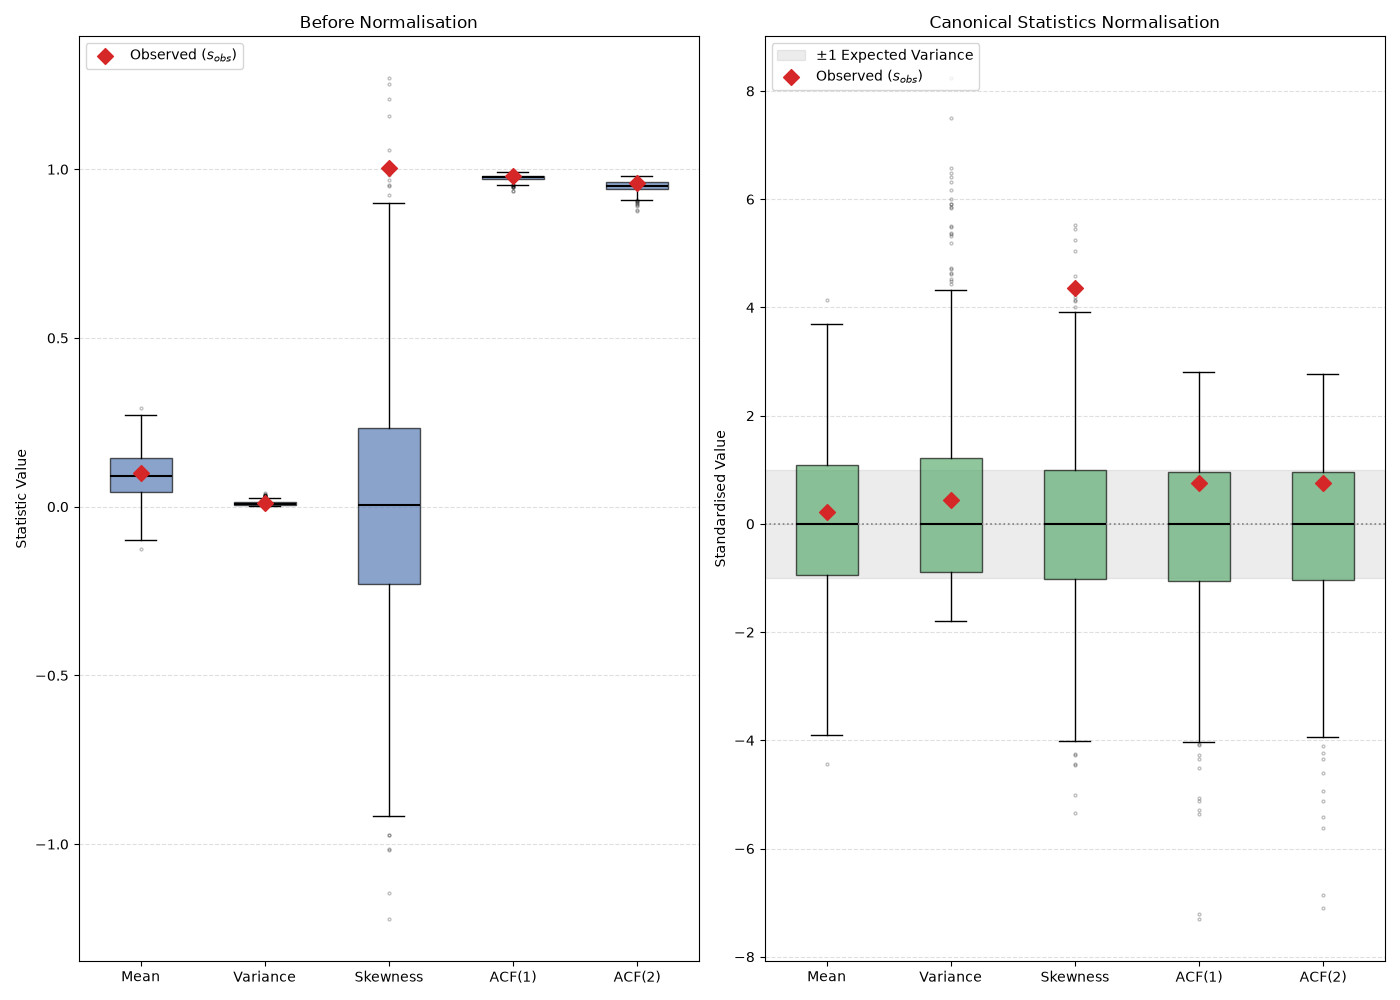
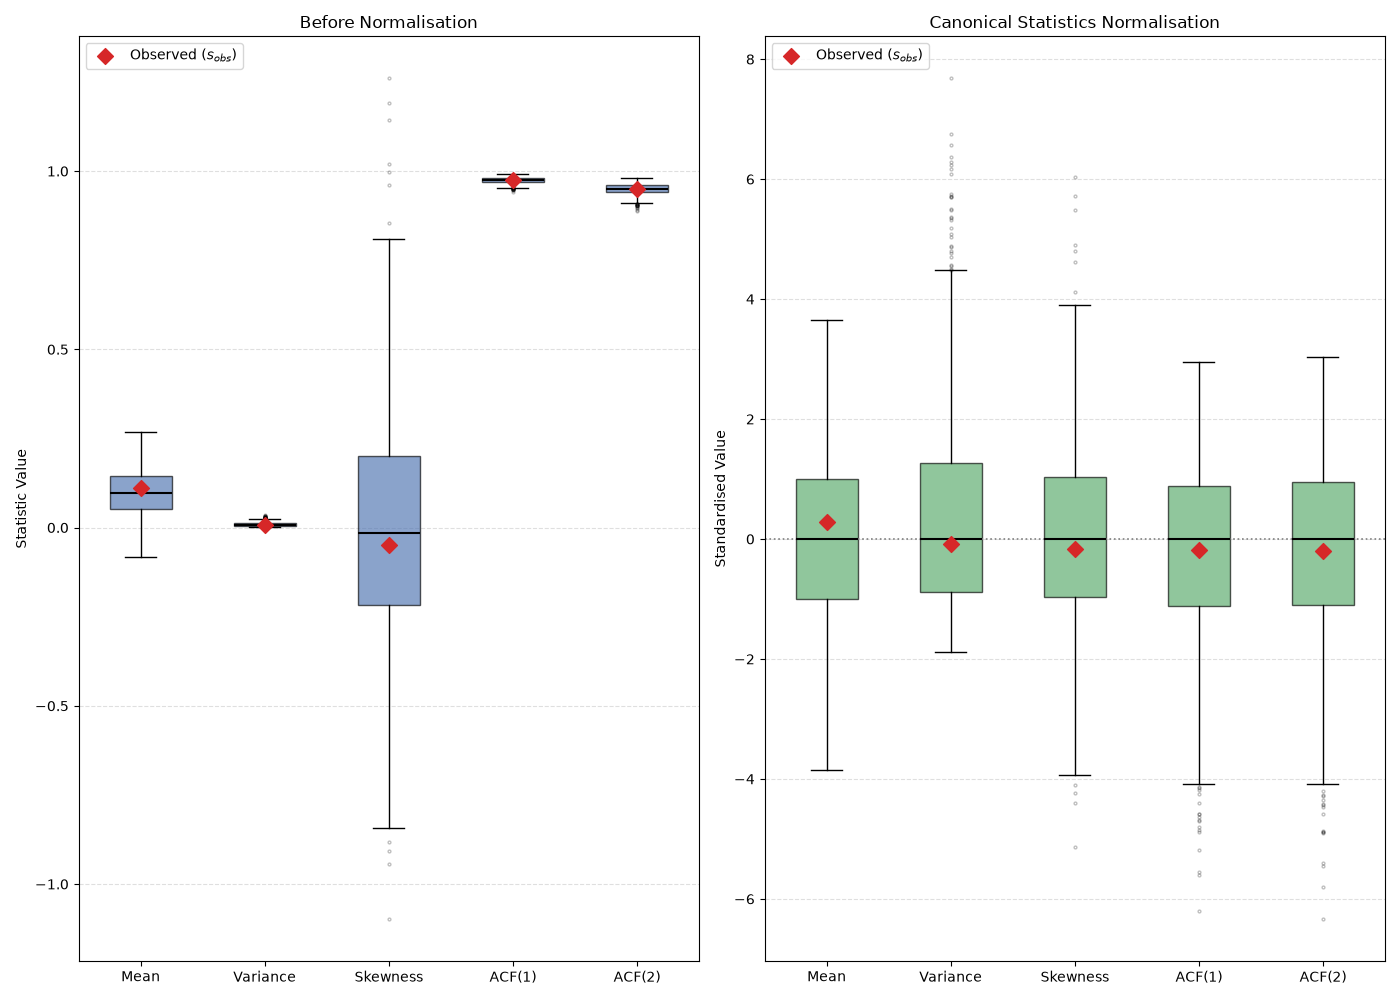
ft: added visualisation for abc

diff --git a/abc-nn/exp_canonical.py b/abc-nn/exp_canonical.py
@@ -50,6 +50,7 @@ if isinstance(summarise, CanonicalSummary):
     print('Fitted summary statistic medians: ', summarise.medians)
     print('Fitted summary statistic MADs: ', summarise.mads)
 
+# start the abc
 results = abcsmc_forward(
     obs=obs,
     prior_bounds=prior_bounds,
@@ -59,6 +60,8 @@ results = abcsmc_forward(
     max_iter=5,
     q=0.1
 )
+
+# print results
 """
 tuple: A tuple containing the following arrays up to the final completed round (t+1):
             - abc_particles (np.ndarray): The accepted parameter vectors forming the posterior.
@@ -69,9 +72,79 @@ tuple: A tuple containing the following arrays up to the final completed round (
             - abc_thresholds (np.ndarray): The epsilon distance thresholds enforced at each round.
 """
 print('Final ABC-SMC results:')
-print('Particles: ', results[0])
 print('Weights: ', results[1])
 print('Round times: ', results[2])
 print('Acceptance rates: ', results[3])
 print('Observed summaries: ', results[4])
 print('ABC thresholds: ', results[5])
+
+# true params and the labels latex
+true_params = np.array([0.1, 0.2, 0.5])
+param_names = [r'$\mu$', r'$\sigma$', r'$\tau$']
+
+# extract particles and importance weight from last round
+final_particles = results[0][-1]
+final_weights = results[1][-1]
+final_weights = final_weights / np.sum(final_weights)
+
+# resample according to the weights to get the weighted posterior
+resampled_indices = np.random.choice(
+    len(final_particles), size=10000, replace=True, p=final_weights
+)
+posterior_samples = final_particles[resampled_indices]
+
+# Create box plot
+fig, ax = plt.subplots(figsize=(8, 5))
+
+bp = ax.boxplot(
+    posterior_samples,
+    tick_labels=param_names,
+    patch_artist=True,
+    widths=0.45,
+    boxprops=dict(facecolor='#4C72B0', alpha=0.65),
+    medianprops=dict(color='black', linewidth=1.5),
+    flierprops=dict(marker='o', markersize=2, alpha=0.25),
+)
+
+# overlay prior bounds interval for reference
+for i in range(len(param_names)):
+    ax.vlines(
+        i + 1,
+        prior_bounds[i, 0],
+        prior_bounds[i, 1],
+        color='gray',
+        linestyle='--',
+        linewidth=1.5,
+        alpha=0.7,
+        label='Prior Bounds' if i == 0 else "",
+    )
+    ax.hlines(
+        [prior_bounds[i, 0], prior_bounds[i, 1]],
+        i + 1 - 0.12,
+        i + 1 + 0.12,
+        color='gray',
+        linewidth=1.5,
+        alpha=0.7,
+    )
+
+# Overlay true observed parameter values
+ax.scatter(
+    range(1, len(param_names) + 1),
+    true_params,
+    color='#D62728',
+    zorder=5,
+    s=75,
+    marker='D',
+    label='True Parameter Value',
+)
+
+ax.set_title('ABC-SMC Posterior Parameter Distributions')
+ax.set_ylabel('Parameter Value')
+ax.grid(axis='y', linestyle='--', alpha=0.4)
+ax.spines['top'].set_visible(False)
+ax.spines['right'].set_visible(False)
+ax.legend(loc='upper left')
+
+plt.tight_layout()
+plt.savefig('abcsmc_posterior_parameters.png', dpi=300)
+plt.show()
